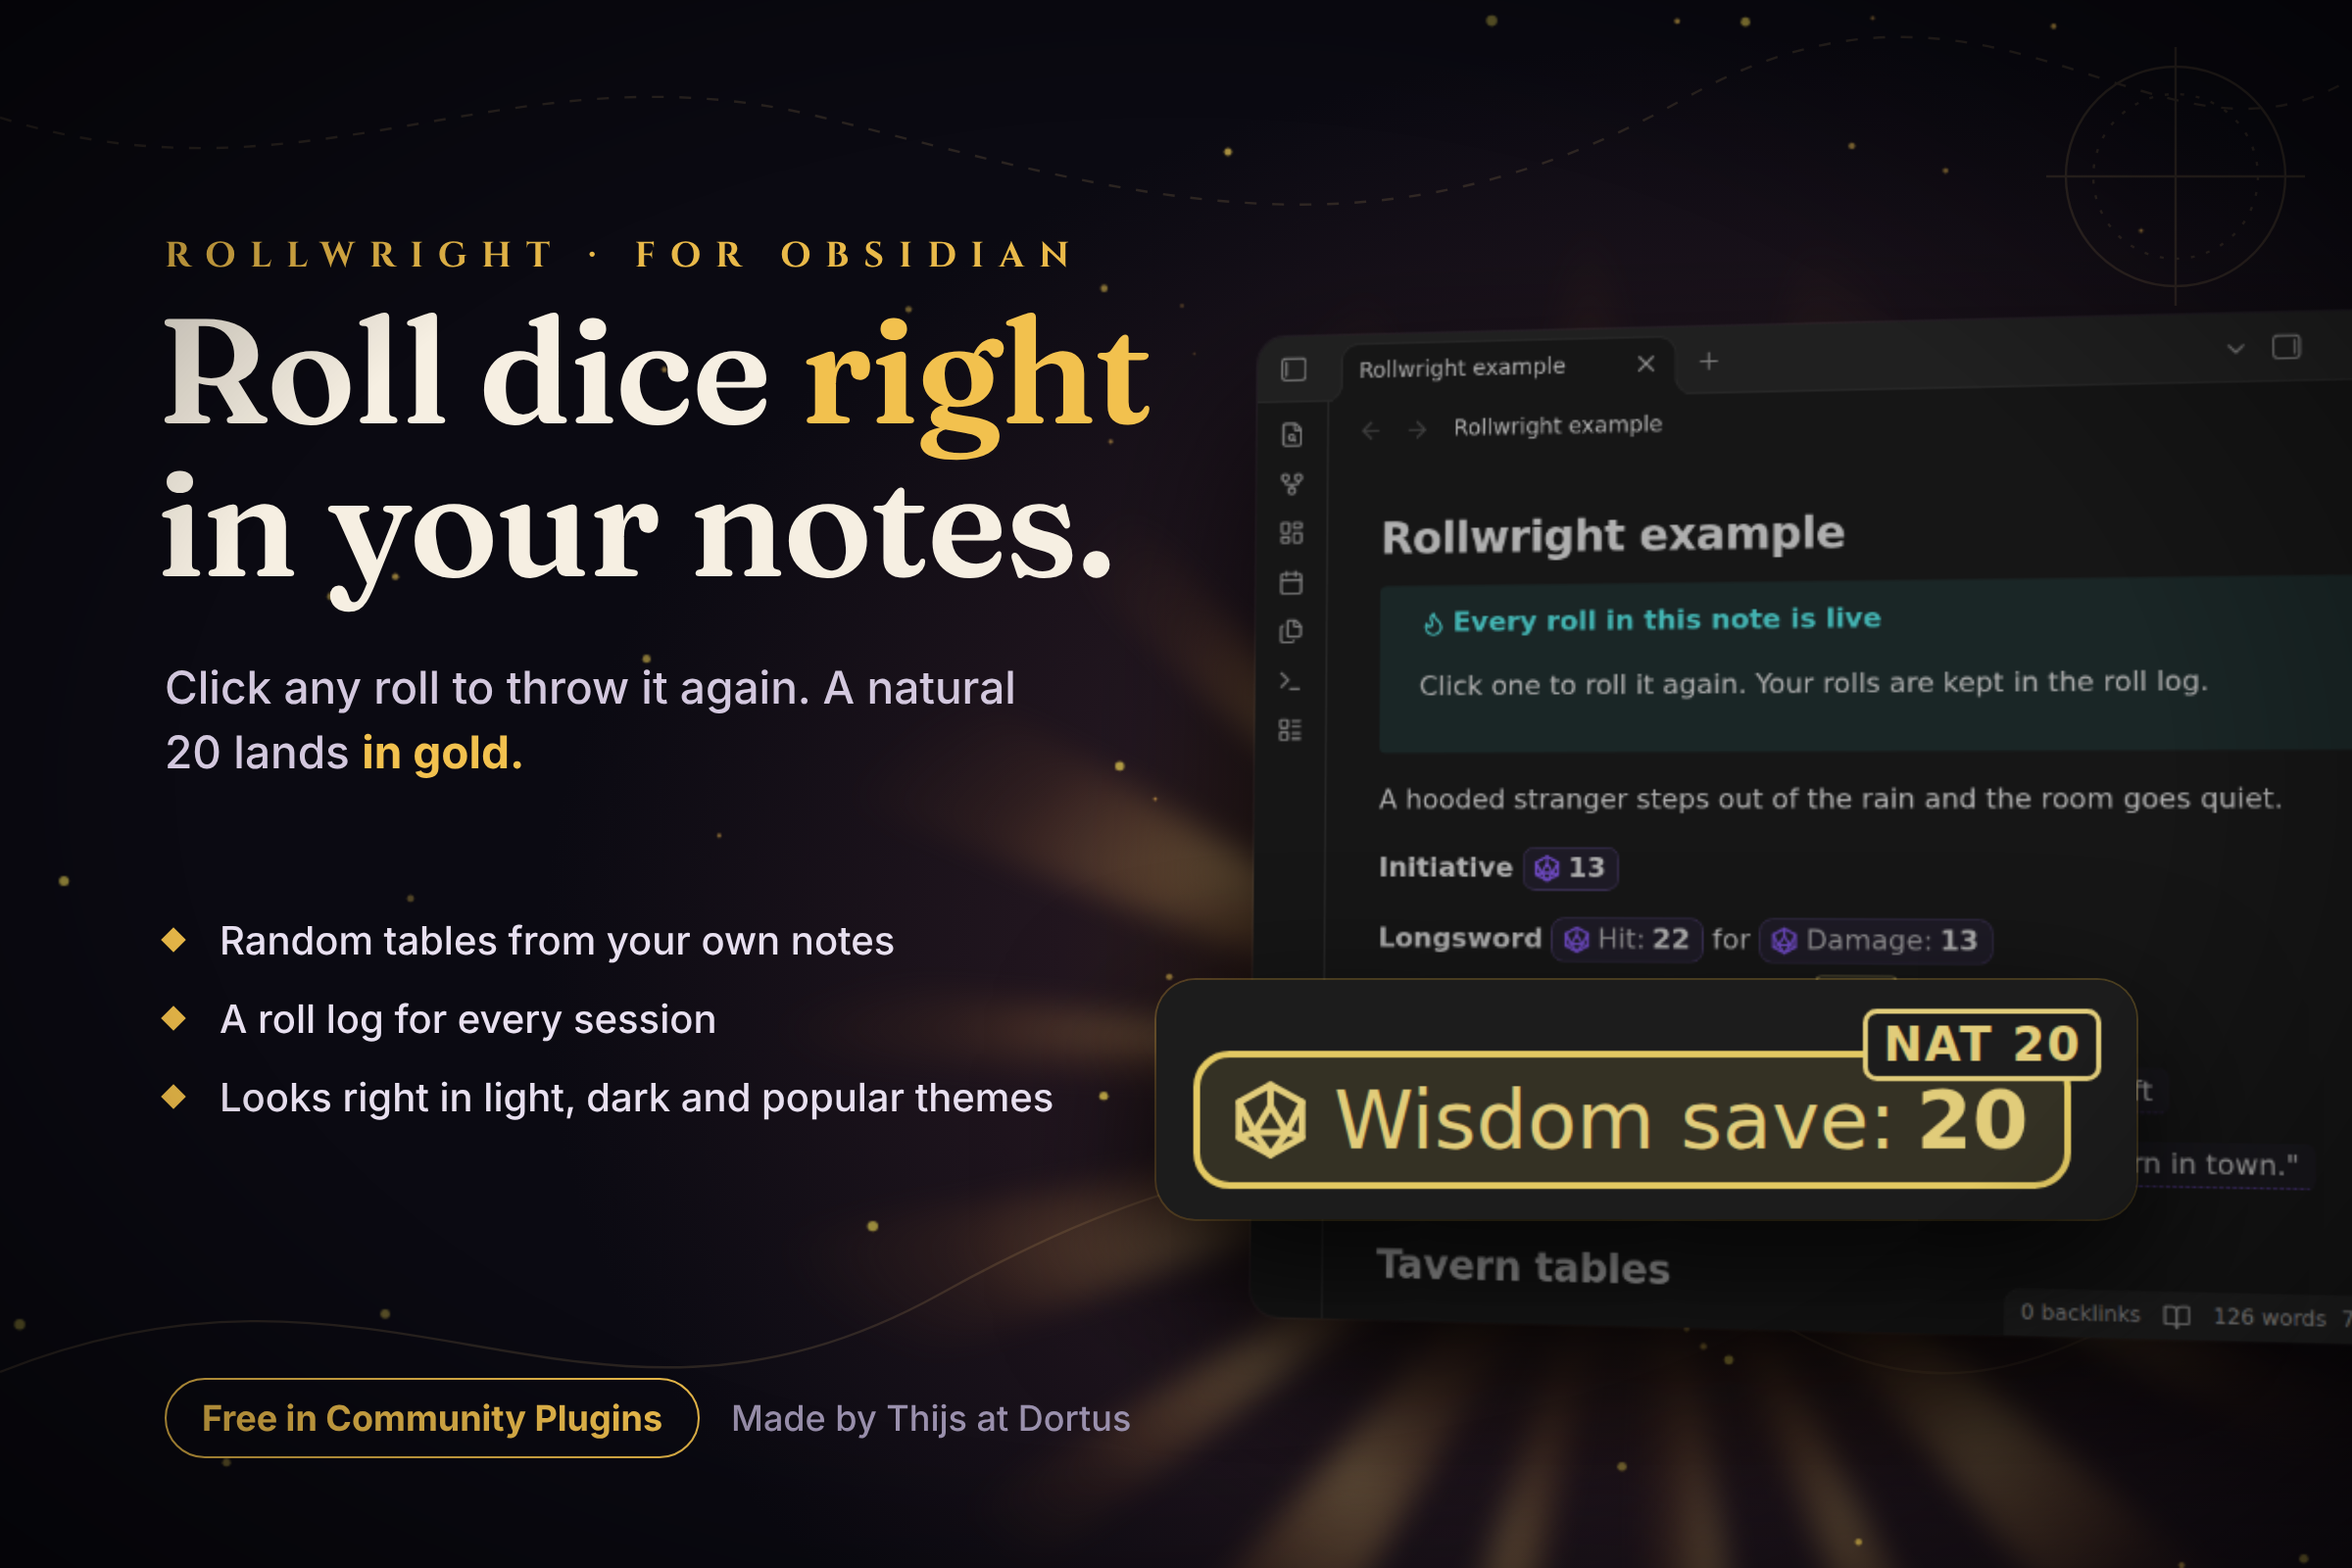
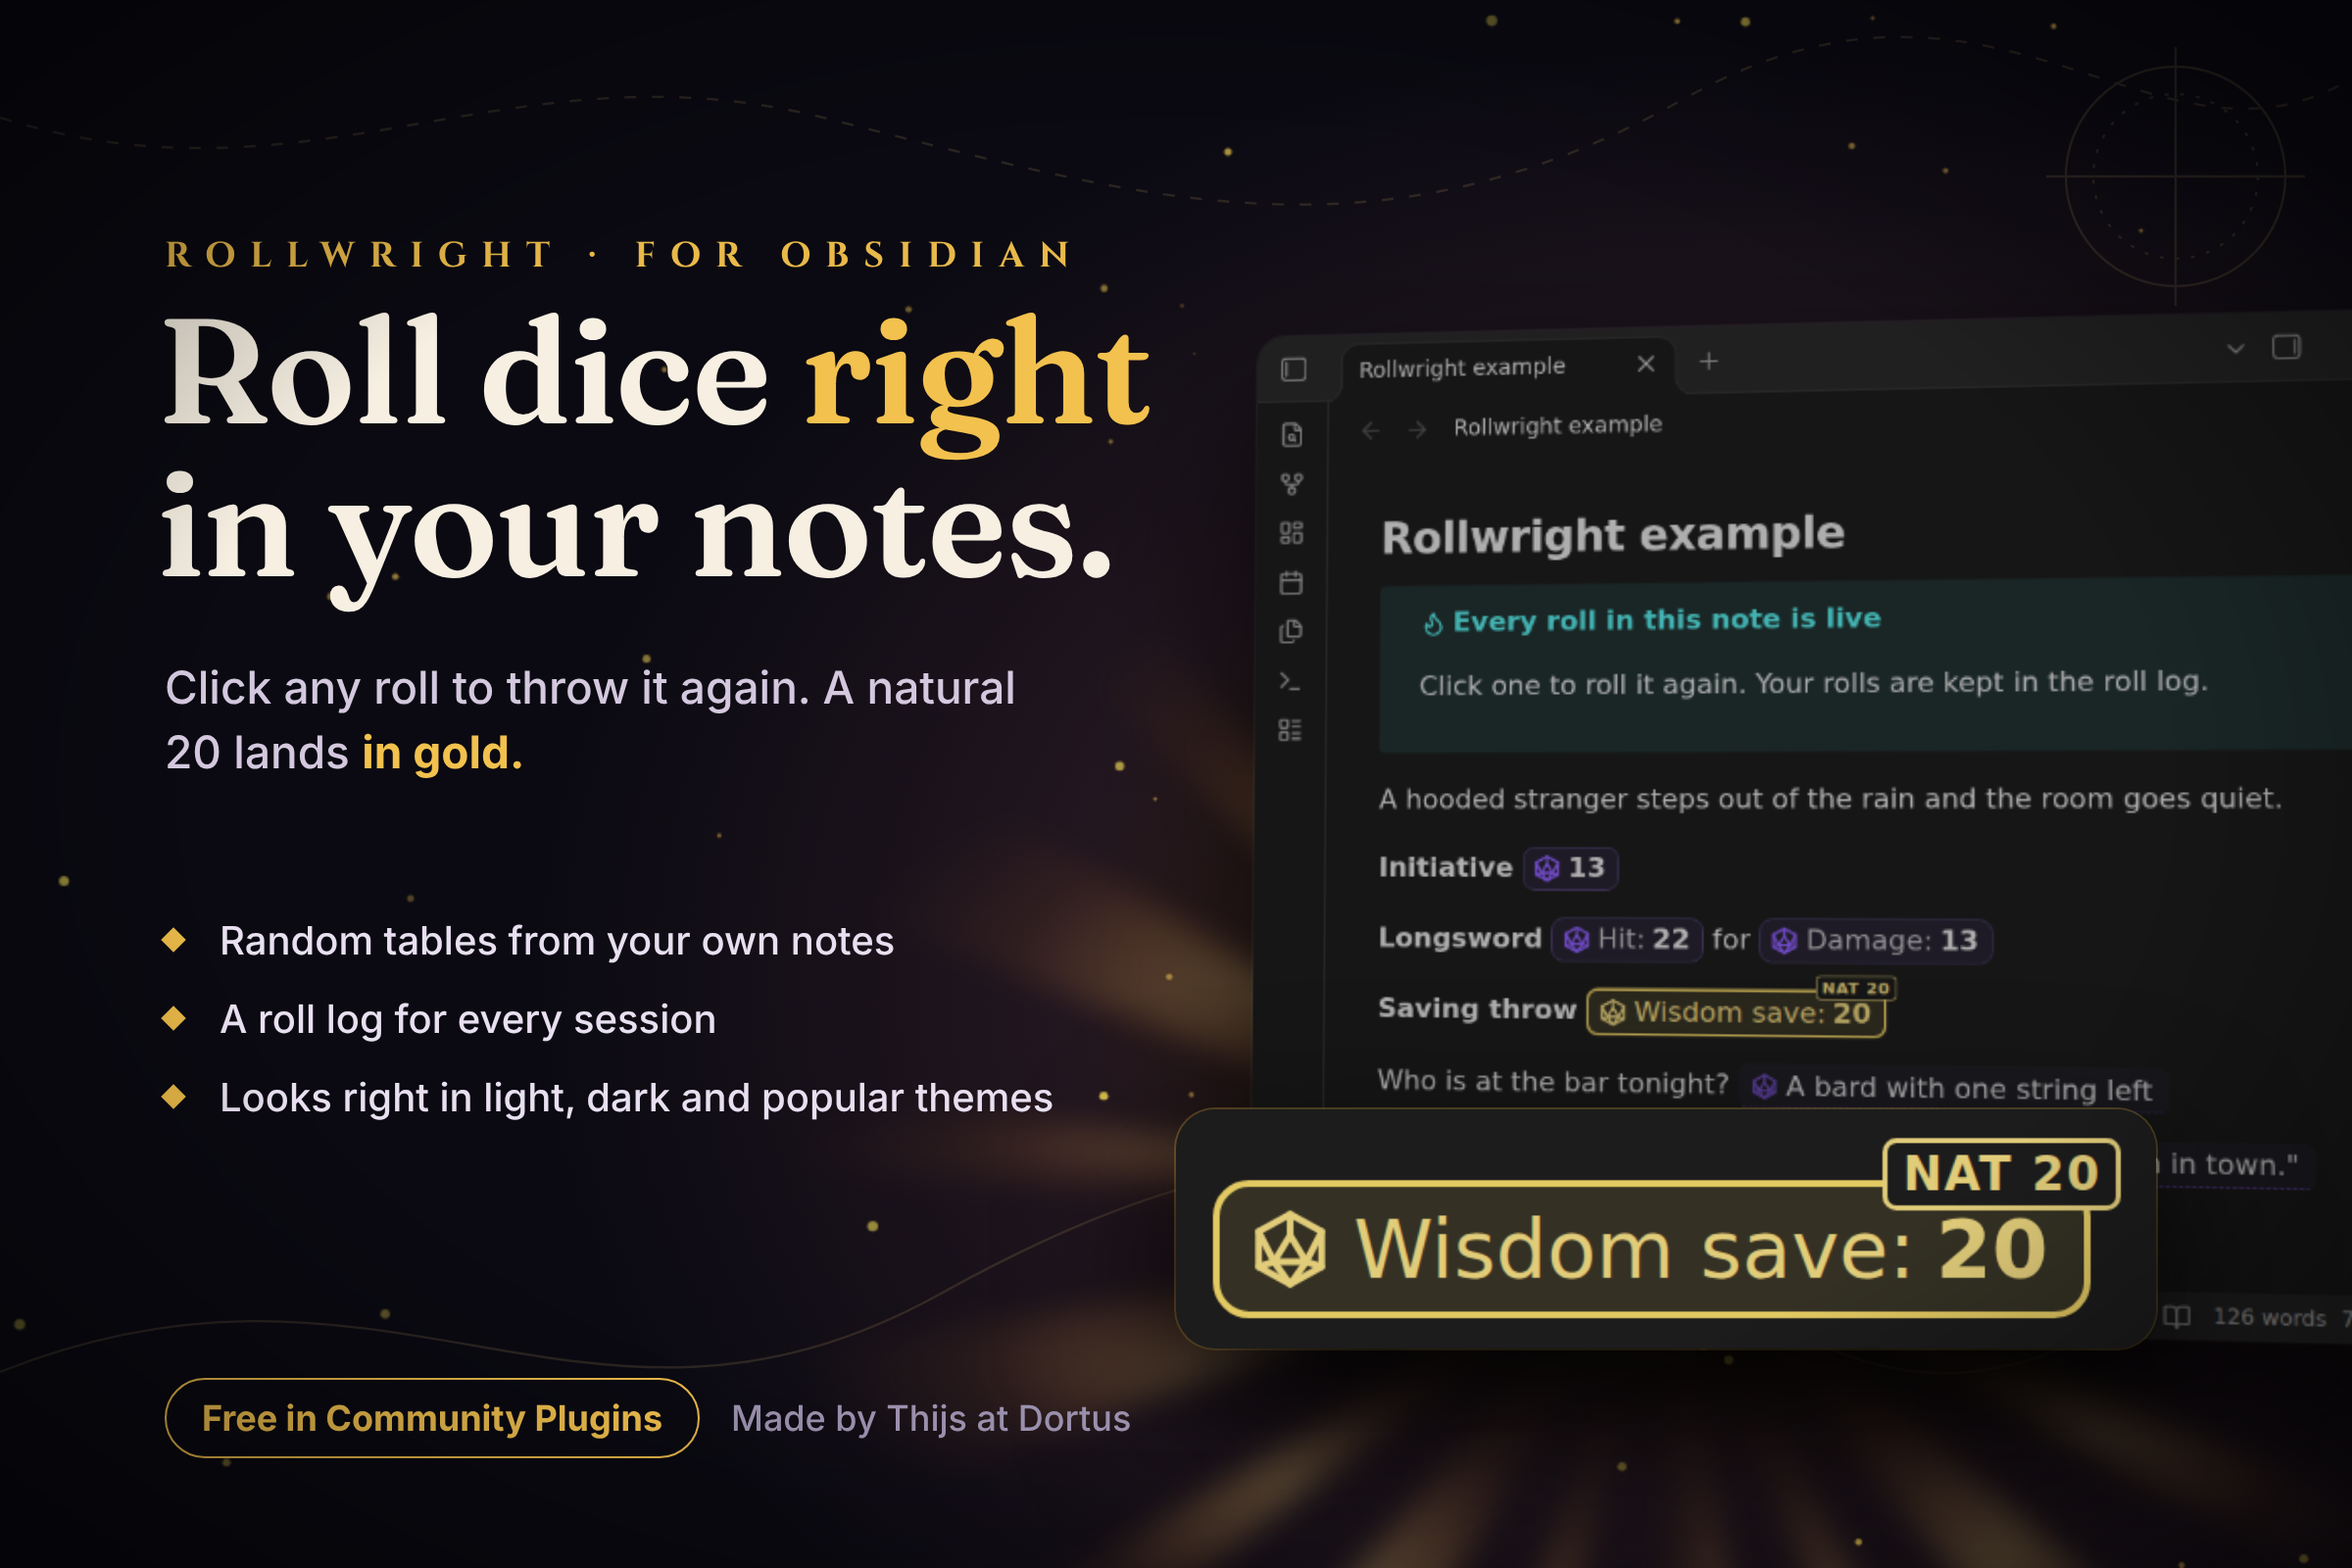
Daan: poster v3, opgetilde kaart lager zodat het echte token zichtbaar blijft (controleur)
Claude-Session: https://claude.ai/code/session_01RMWUyfgiQCihTyJhuke5TR

Changed region(s): [[0.4062, 0.5, 0.9062, 1.0], [0.75, 0.875, 0.9062, 1.0]]

diff --git a/ontwerp/rollwright/bron/film-v3/poster-v3.html b/ontwerp/rollwright/bron/film-v3/poster-v3.html
@@ -4,12 +4,12 @@
 html,body{margin:0;width:1200px;height:800px;overflow:hidden}
 #s{position:absolute;inset:0;overflow:hidden;background:radial-gradient(ellipse 60% 70% at 74% 62%,#4a2c10 0%,#22161f 48%,#0b0a12 85%)}
 #map{position:absolute;inset:0;opacity:.14}
-#rays{position:absolute;left:390px;top:110px;width:900px;height:900px;filter:blur(8px);opacity:.55}
+#rays{position:absolute;left:400px;top:170px;width:900px;height:900px;filter:blur(8px);opacity:.55}
 canvas{position:absolute;inset:0}
 #win{position:absolute;left:640px;top:170px;width:640px;height:500px;border-radius:14px;overflow:hidden;
  box-shadow:0 40px 90px rgba(0,0,0,.8),0 0 0 1px rgba(255,255,255,.08);transform:perspective(1600px) rotateY(-9deg) rotateX(3deg);transform-origin:0 50%;filter:brightness(.8)}
 #win img{width:640px;height:500px;display:block}
-#lift{position:absolute;left:590px;top:500px;width:500px;border-radius:20px;overflow:hidden;
+#lift{position:absolute;left:600px;top:566px;width:500px;border-radius:20px;overflow:hidden;
  box-shadow:0 30px 80px rgba(0,0,0,.85),0 0 0 1px rgba(233,185,73,.3)}
 #lift img{width:500px;display:block}
 .k{position:absolute;left:84px;top:118px;font:700 18px Cinzel;letter-spacing:.42em;color:#e9b949}
